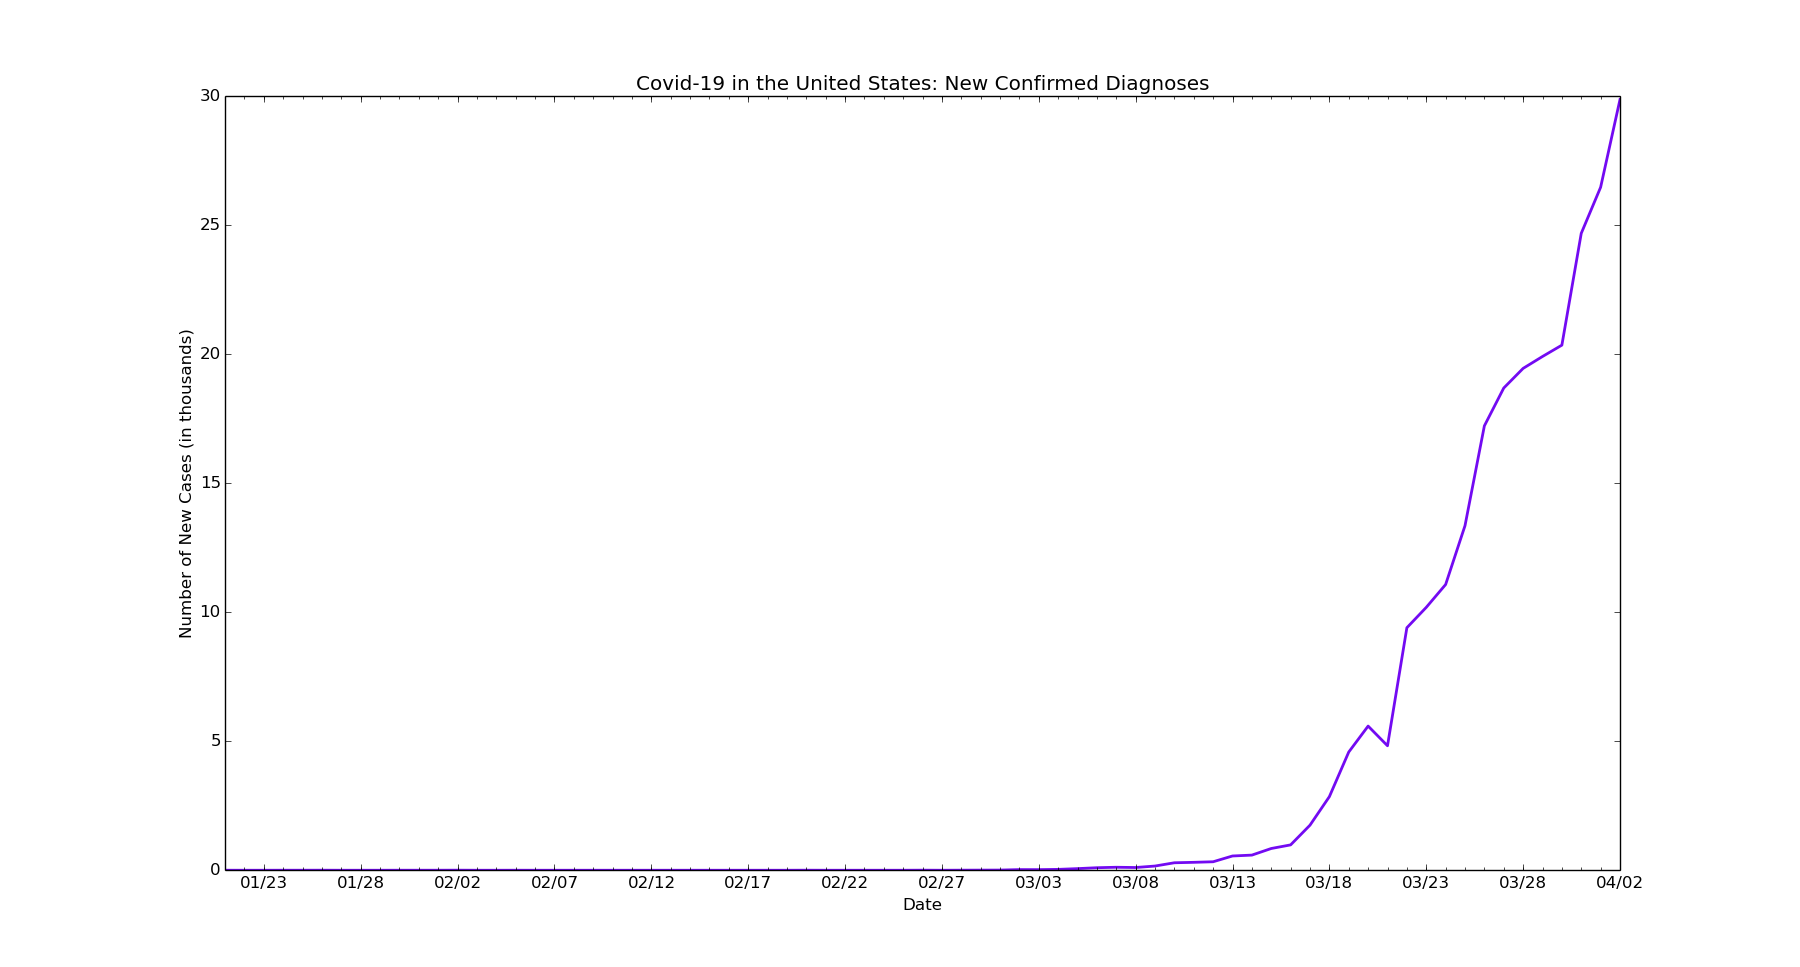
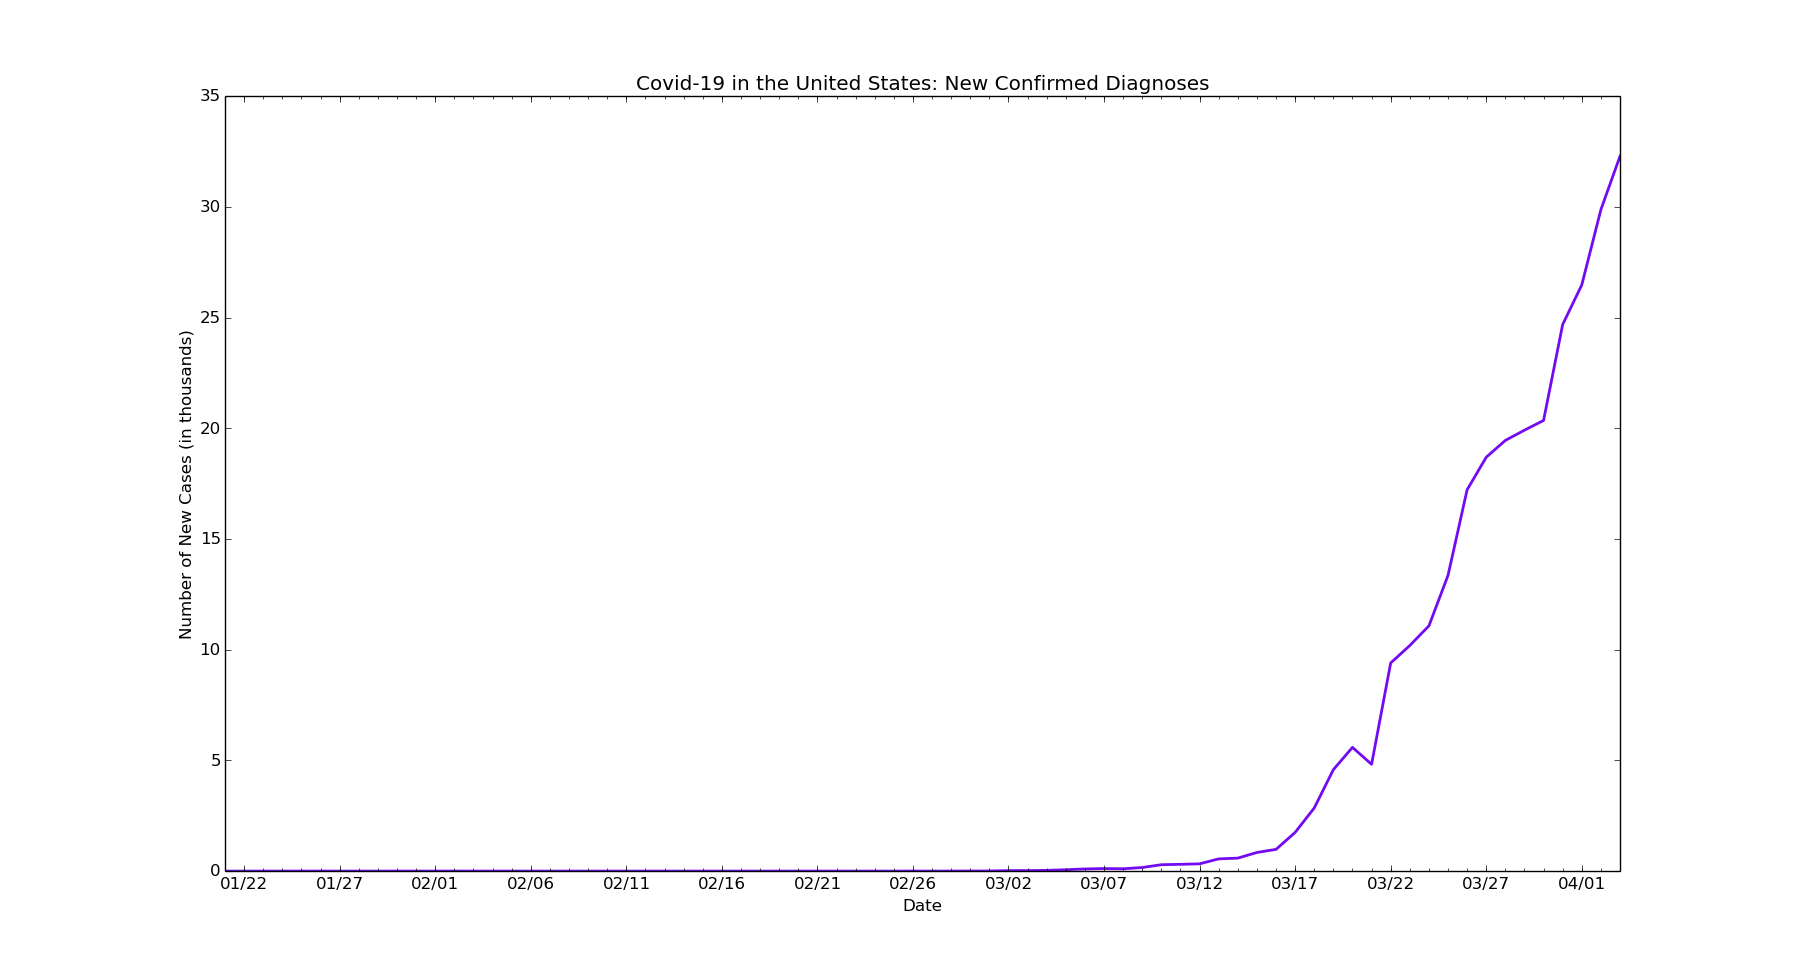
chore: Update data for USA

diff --git a/usa/us-new.py b/usa/us-new.py
@@ -6,7 +6,7 @@ import matplotlib.dates as mdates
 import matplotlib.ticker as ticker
 from matplotlib.dates import MO, TU, WE, TH, FR, SA, SU
 
-dates = ['1/21/2020', '1/22/2020', '1/23/2020', '1/24/2020', '1/25/2020', '1/26/2020', '1/27/2020', '1/28/2020', '1/29/2020', '1/30/2020', '1/31/2020', '2/1/2020', '2/2/2020', '2/3/2020', '2/4/2020', '2/5/2020', '2/6/2020', '2/7/2020', '2/8/2020', '2/9/2020', '2/10/2020', '2/11/2020', '2/12/2020', '2/13/2020', '2/14/2020', '2/15/2020', '2/16/2020', '2/17/2020', '2/18/2020', '2/19/2020', '2/20/2020', '2/21/2020', '2/22/2020', '2/23/2020', '2/24/2020', '2/25/2020', '2/26/2020', '2/27/2020', '2/28/2020', '2/29/2020', '3/1/2020', '3/2/2020', '3/3/2020', '3/4/2020', '3/5/2020', '3/6/2020', '3/7/2020', '3/8/2020', '3/9/2020', '3/10/2020', '3/11/2020', '3/12/2020', '3/13/2020', '3/14/2020', '3/15/2020', '3/16/2020', '3/17/2020', '3/18/2020', '3/19/2020', '3/20/2020', '3/21/2020', '3/22/2020', '3/23/2020', '3/24/2020', '3/25/2020', '3/26/2020', '3/27/2020', '3/28/2020', '3/29/2020', '3/30/2020', '3/31/2020', '4/1/2020', '4/2/2020']
+dates = ['1/21/2020', '1/22/2020', '1/23/2020', '1/24/2020', '1/25/2020', '1/26/2020', '1/27/2020', '1/28/2020', '1/29/2020', '1/30/2020', '1/31/2020', '2/1/2020', '2/2/2020', '2/3/2020', '2/4/2020', '2/5/2020', '2/6/2020', '2/7/2020', '2/8/2020', '2/9/2020', '2/10/2020', '2/11/2020', '2/12/2020', '2/13/2020', '2/14/2020', '2/15/2020', '2/16/2020', '2/17/2020', '2/18/2020', '2/19/2020', '2/20/2020', '2/21/2020', '2/22/2020', '2/23/2020', '2/24/2020', '2/25/2020', '2/26/2020', '2/27/2020', '2/28/2020', '2/29/2020', '3/1/2020', '3/2/2020', '3/3/2020', '3/4/2020', '3/5/2020', '3/6/2020', '3/7/2020', '3/8/2020', '3/9/2020', '3/10/2020', '3/11/2020', '3/12/2020', '3/13/2020', '3/14/2020', '3/15/2020', '3/16/2020', '3/17/2020', '3/18/2020', '3/19/2020', '3/20/2020', '3/21/2020', '3/22/2020', '3/23/2020', '3/24/2020', '3/25/2020', '3/26/2020', '3/27/2020', '3/28/2020', '3/29/2020', '3/30/2020', '3/31/2020', '4/1/2020', '4/2/2020', '4/3/2020']
 
 # format dates
 x_values = [datetime.datetime.strptime(d, "%m/%d/%Y").date() for d in dates]
@@ -24,7 +24,7 @@ ax.xaxis.set_minor_locator(mdates.WeekdayLocator(byweekday=(MO, TU, WE, TH, FR, 
 ax.get_yaxis().set_major_formatter(ticker.FuncFormatter(lambda x, pos: format(int(x/1000))))
 
 # new cases by day
-new_cases = [1, 0, 0, 1, 1, 2, 0, 0, 0, 1, 1, 1, 3, 0, 0, 1, 0, 0, 0, 0, 0, 0, 0, 0, 0, 0, 0, 0, 0, 0, 2, 0, 0, 0, 0, 0, 3, 0, 3, 5, 7, 25, 24, 34, 63, 98, 116, 106, 163, 290, 307, 329, 553, 587, 843, 983, 1748, 2853, 4582, 5588, 4825, 9400, 10189, 11075, 13355, 17224, 18691, 19452, 19913, 20353, 24686, 26473, 29874]
+new_cases = [1, 0, 0, 1, 1, 2, 0, 0, 0, 1, 1, 1, 3, 0, 0, 1, 0, 0, 0, 0, 0, 0, 0, 0, 0, 0, 0, 0, 0, 0, 2, 0, 0, 0, 0, 0, 3, 0, 3, 5, 7, 25, 24, 34, 63, 98, 116, 106, 163, 290, 307, 329, 553, 587, 843, 983, 1748, 2853, 4582, 5588, 4825, 9400, 10189, 11075, 13355, 17224, 18691, 19452, 19913, 20353, 24686, 26473, 29874, 32284]
 
 # text labels
 plt.title('Covid-19 in the United States: New Confirmed Diagnoses')

diff --git a/usa/us-rvd.py b/usa/us-rvd.py
@@ -6,7 +6,7 @@ import matplotlib.dates as mdates
 import matplotlib.ticker as ticker
 from matplotlib.dates import MO, TU, WE, TH, FR, SA, SU
 
-dates = ['2/25/2020', '2/26/2020', '2/27/2020', '2/28/2020', '2/29/2020', '3/1/2020', '3/2/2020', '3/3/2020', '3/4/2020', '3/5/2020', '3/6/2020', '3/7/2020', '3/8/2020', '3/9/2020', '3/10/2020', '3/11/2020', '3/12/2020', '3/13/2020', '3/14/2020', '3/15/2020', '3/16/2020', '3/17/2020', '3/18/2020', '3/19/2020', '3/20/2020', '3/21/2020', '3/22/2020', '3/23/2020', '3/24/2020', '3/25/2020', '3/26/2020', '3/27/2020', '3/28/2020', '3/29/2020', '3/30/2020', '3/31/2020', '4/1/2020', '4/2/2020']
+dates = ['2/25/2020', '2/26/2020', '2/27/2020', '2/28/2020', '2/29/2020', '3/1/2020', '3/2/2020', '3/3/2020', '3/4/2020', '3/5/2020', '3/6/2020', '3/7/2020', '3/8/2020', '3/9/2020', '3/10/2020', '3/11/2020', '3/12/2020', '3/13/2020', '3/14/2020', '3/15/2020', '3/16/2020', '3/17/2020', '3/18/2020', '3/19/2020', '3/20/2020', '3/21/2020', '3/22/2020', '3/23/2020', '3/24/2020', '3/25/2020', '3/26/2020', '3/27/2020', '3/28/2020', '3/29/2020', '3/30/2020', '3/31/2020', '4/1/2020', '4/2/2020', '4/3/2020']
 
 # format dates
 x_values = [datetime.datetime.strptime(d, "%m/%d/%Y").date() for d in dates]
@@ -24,10 +24,10 @@ ax.xaxis.set_minor_locator(mdates.WeekdayLocator(byweekday=(MO, TU, WE, TH, FR, 
 ax.get_yaxis().set_major_formatter(ticker.FuncFormatter(lambda x, pos: format(int(x/1000), ',')))
 
 # recoveries by day
-recoveries = [6, 6, 6, 6, 7, 9, 9, 9, 9, 9, 15, 15, 15, 15, 15, 15, 15, 15, 49, 60, 75, 107, 107, 109, 147, 171, 178, 296, 379, 394, 1868, 2522, 3223, 4840, 5506, 7251, 8878, 10403]
+recoveries = [6, 6, 6, 6, 7, 9, 9, 9, 9, 9, 15, 15, 15, 15, 15, 15, 15, 15, 49, 60, 75, 107, 107, 109, 147, 171, 178, 296, 379, 394, 1868, 2522, 3223, 4840, 5506, 7251, 8878, 10403, 12283]
 
 # deaths by day
-deaths = [0, 0, 0, 0, 1, 1, 6, 9, 11, 12, 15, 19, 22, 26, 30, 38, 41, 48, 57, 69, 87, 110, 150, 206, 255, 301, 414, 555, 780, 1027, 1295, 1696, 2229, 2489, 3156, 4053, 5102, 6070]
+deaths = [0, 0, 0, 0, 1, 1, 6, 9, 11, 12, 15, 19, 22, 26, 30, 38, 41, 48, 57, 69, 87, 110, 150, 206, 255, 301, 414, 555, 780, 1027, 1295, 1696, 2229, 2489, 3156, 4053, 5102, 6070, 7392]
 
 # create the graph
 plt.plot(x_values, recoveries, color='#12cfdf', linewidth=2)
